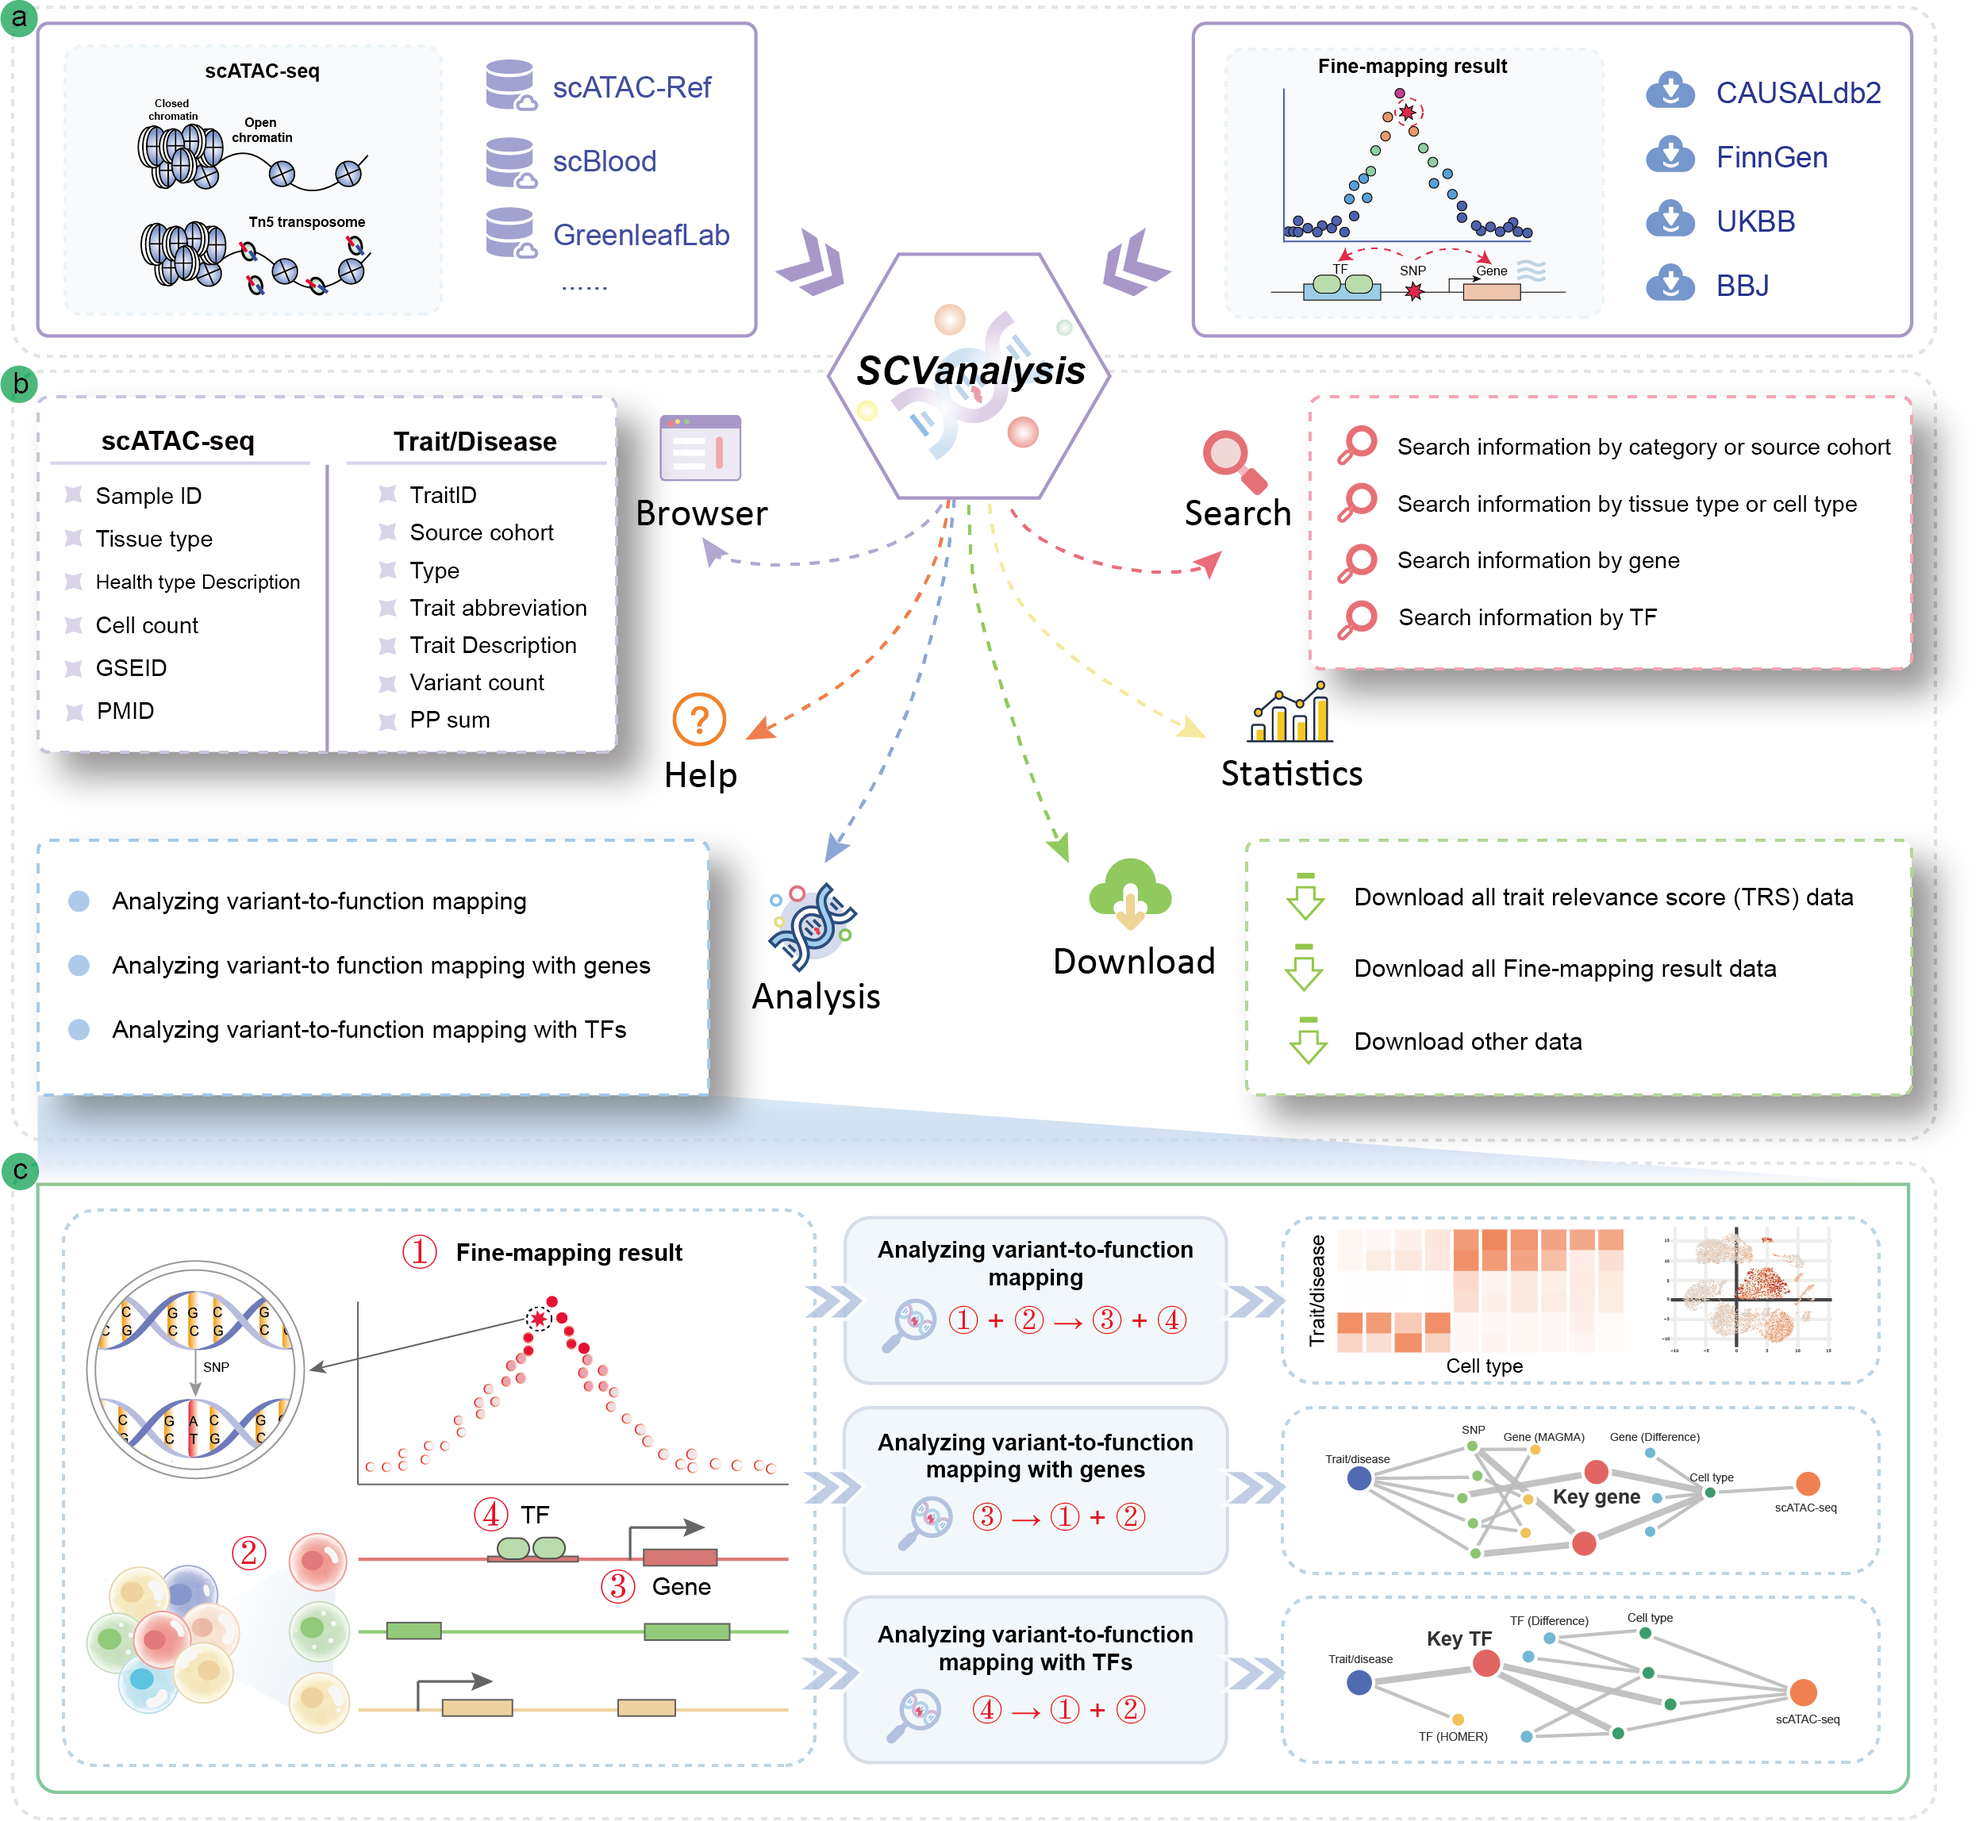
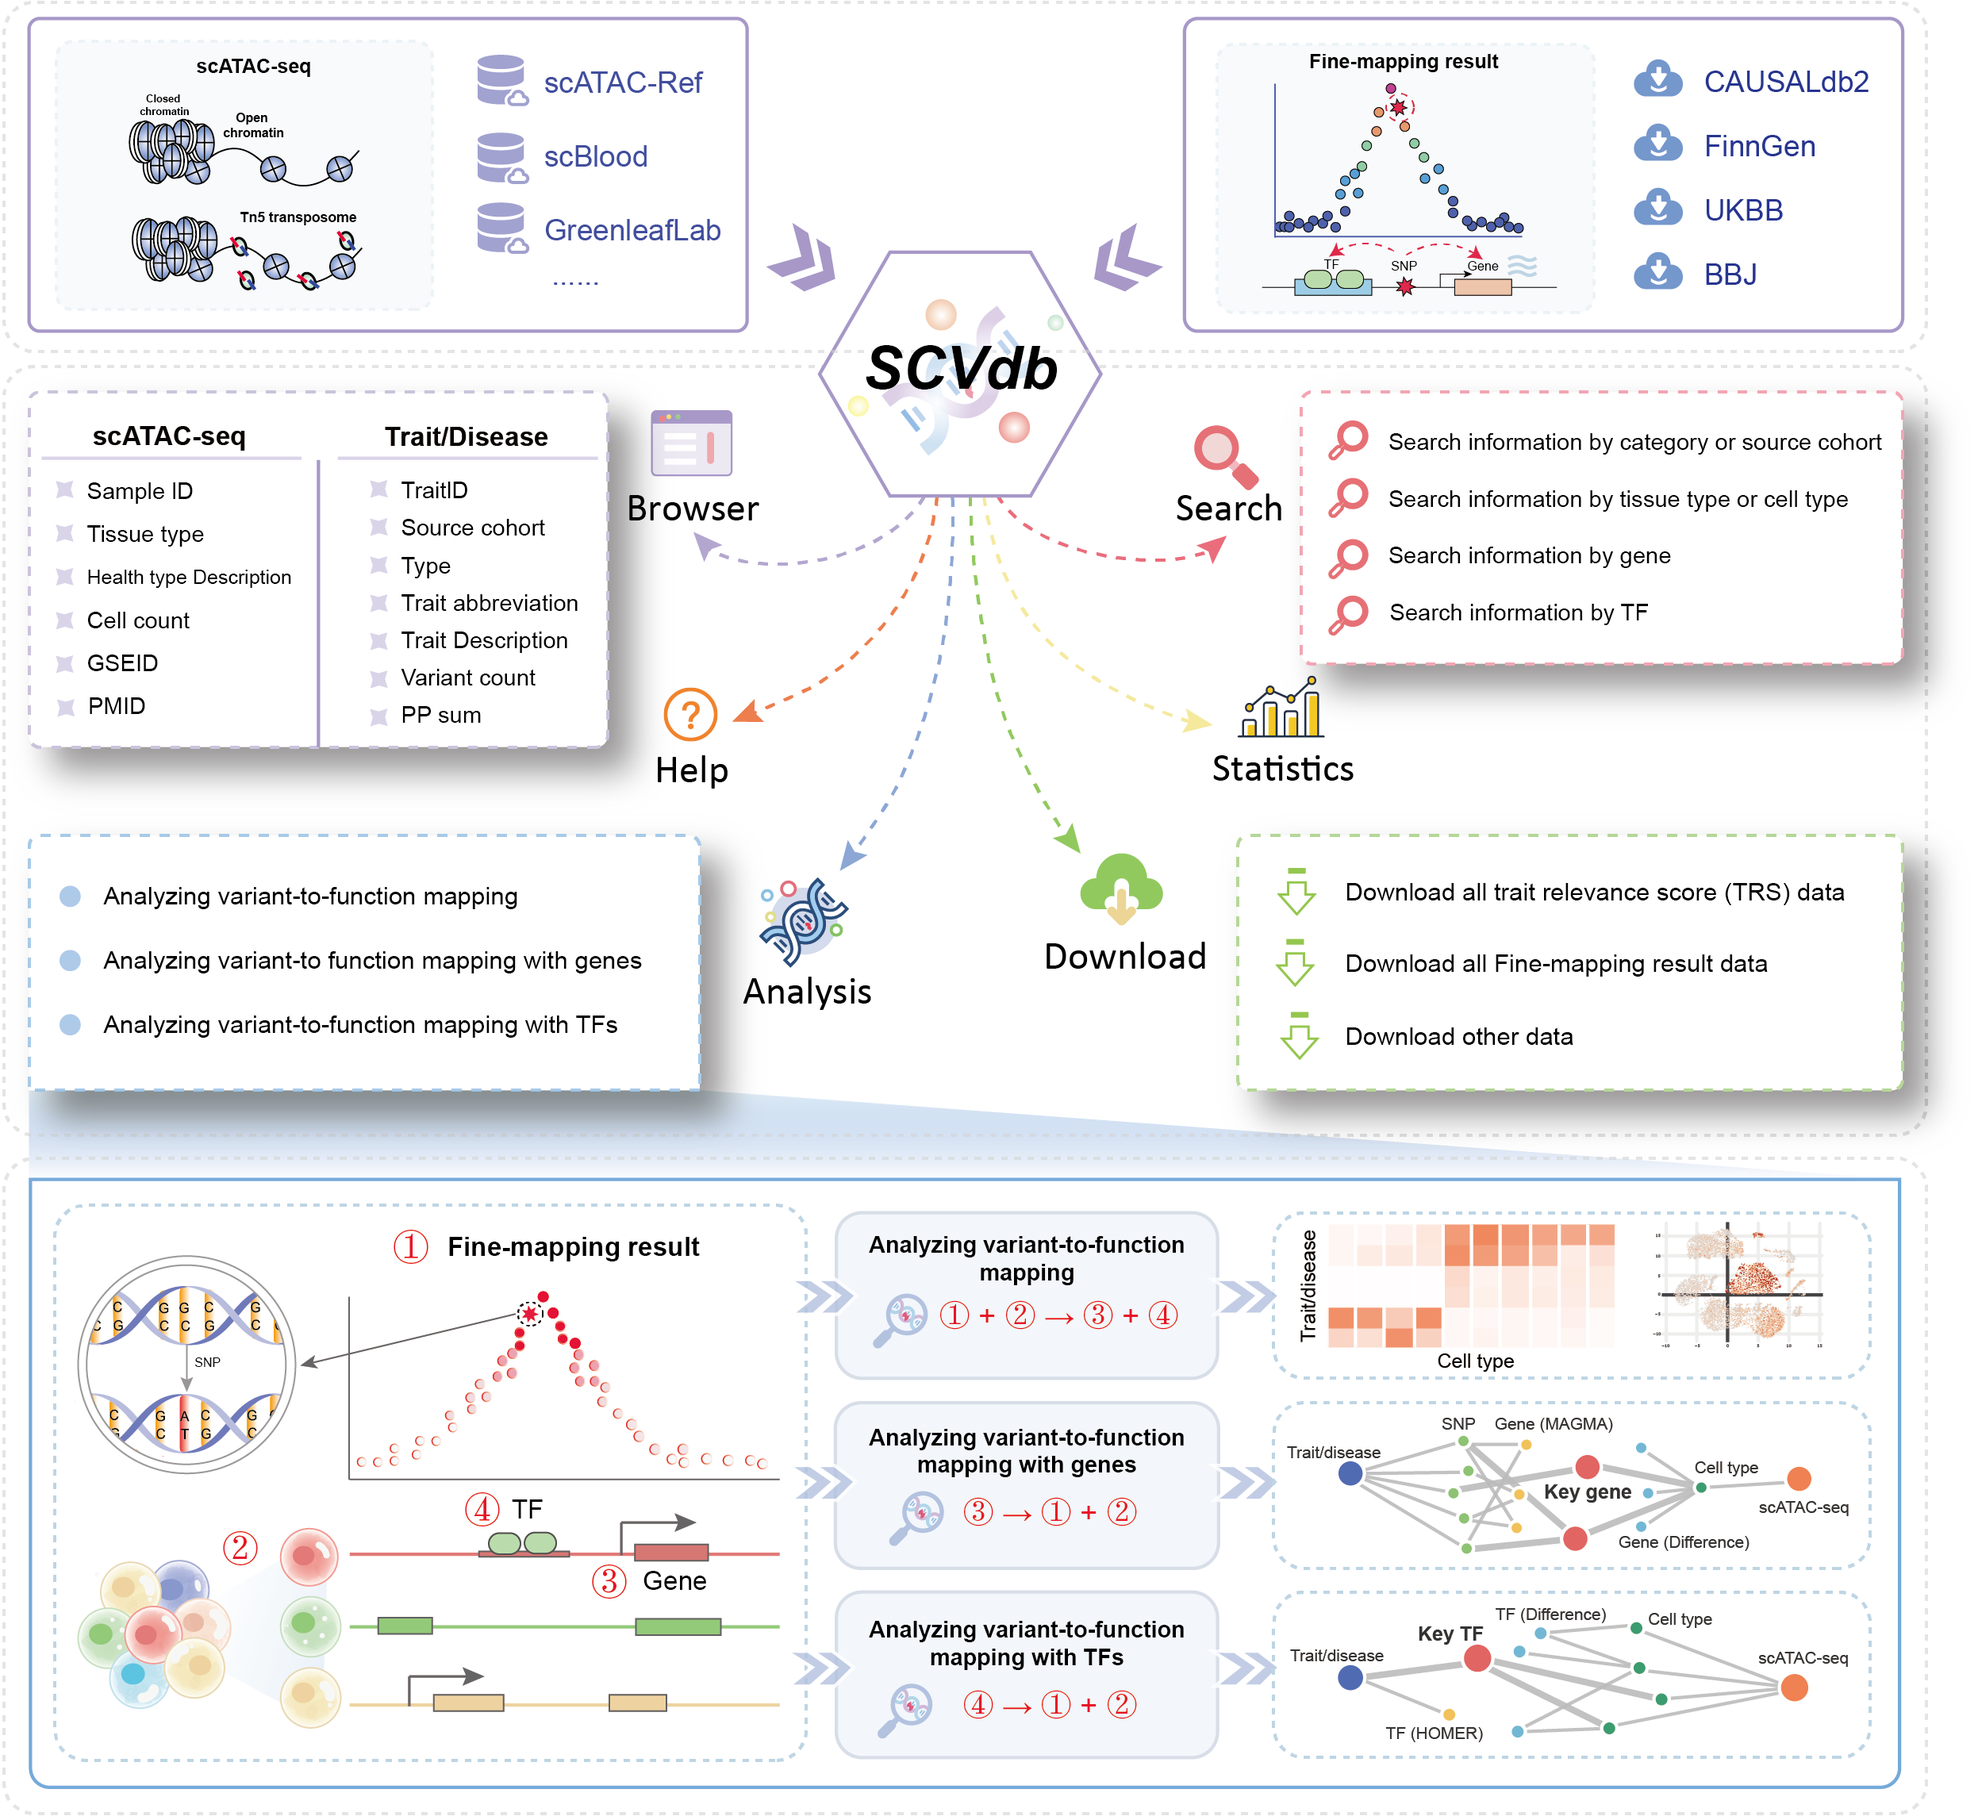
feat: 完善首页文档

diff --git a/docs/source/conf.py b/docs/source/conf.py
@@ -3,8 +3,8 @@
 # -- Project information
 
 project = 'SCVdb'
-copyright = '2025, Zhengmin Yu'
-author = 'Zhengmin Yu'
+copyright = '2025, Zheng-Min Yu'
+author = 'Zheng-Min Yu'
 
 release = '1.0.0'
 version = '1.0.0'
@@ -20,7 +20,7 @@ extensions = [
 ]
 
 intersphinx_mapping = {
-    'SCVanalysis': ('https://bio.liclab.net/scvdb/', None),
+    'SCVdb': ('https://bio.liclab.net/scvdb/', None),
     'GitHub': ('https://github.com/YuZhengM/scvdb-tutorial', None),
 }
 intersphinx_disabled_domains = ['std']

diff --git a/docs/source/structure.rst b/docs/source/structure.rst
@@ -1,27 +1,47 @@
 2. Analysis process and plat structure
 ======================================
 
+The current version of SCVdb records ``183`` scATAC-seq data and ``15,805`` fine-mapping result data.
+The scATAC-seq samples were organized and manually classified by scATAC-Ref, scBlood and others.
+By using a unified system environment and software for unified process preprocessing, causal variant
+data is collected from sources CAUSALdb, FinnGen, UKBB, and BBJ and processed and screened according
+to unified principles. Among these, the single-cell data collection includes 20 tissue types, over
+150 cell types, and a total of more than ``1,341,000`` single cells. The traits or disease types included
+in the fine-mapping result datasets are diverse and cover a wide range, encompassing `all 22 major
+disease categories` in the ICD-10 disease classification, with the II Neoplasms (C00-D48) being the
+most prevalent, totaling 630. There are over 350 subtypes of diseases under the 22 disease categories.
+Additionally, various indicators, treatments, compounds, drugs, occupation, and medical conditions are
+also included. In the result datasets, the number of valid trait- or disease-scATAC-seq data pairs
+exceeds ``1,923,000``, among which the number of trait- or disease-cell pairs is as high as ``15.9 billion``,
+providing valuable resources for exploring the functional localization of single-cell variations. SCVdb
+provides a user-friendly interface for analyzing, querying, browsing, and downloading pages, as well as
+their related annotation information. For more detailed statistical data, please refer to the
+"`Statistics <https://bio.liclab.net/scvdb/statistics>`_" page.
 
+The results page displays a summary table of relevant traits with key details. When selecting a specific trait,
+the detail information at the single cell level will be present, including the following contents:
 
-The current version of SCVdb records ``183`` scATAC-seq data and ``15,805``
-fine-mapping result data. The scATAC-seq samples were organized and
-manually classified by scATAC-Ref, scBlood and others. By using a
-unified system environment and software for unified process preprocessing,
-causal variant data is collected from sources ``CAUSALdb``, ``FinnGen``, ``UKBB``,
-and ``BBJ`` and processed and screened according to unified principles. SCVdb
-provides a user-friendly interface for analyzing, querying, browsing, and
-downloading pages, as well as their related annotation information. For
-more detailed statistical data, please refer to the "`Statistics <https://bio.liclab.net/scvdb/statistics>`_" page.
-
-The analysis results mainly include:
-
-1. Enrichment heatmap of different cell types in traits or diseases in a single-cell sample.
-#. Scatter plot and box plot of cells of interest for a certain trait or disease in the sample.
-#. The differential gene results and the bubble plot of gene enrichment in a single-cell sample.
-#. Results of gene enrichment through MAGMA for causal variant effects.
-#. Regulating a network from a trait to a single-cell sample through genes as a hub.
-#. Differential transcription factor (TF) data in a single-cell sample.
-#. Identifying TFs related to a trait or disease through HOMER.
-#. Regulating a network from a trait to a single-cell sample through TFs as a hub.
+(i). ``"Overview"``: For the single-cell sample detail page, it displays the detailed content of the sample,
+the cell type distribution chart. For the trait or disease detail page, it displays the detailed content of
+this fine-mapping result, including chromatin distribution maps and detailed causal variant information under
+different reference genome backgrounds.
+(ii). ``"Enriched Cells"``: It presents a table and corresponding visualization of enriched single-cell data.
+For this trait, scatter plots and a box plot illustrate the potential regulatory effect on various cell types.
+(iii). ``"Differential genes"``: It displays a data table of differentially expressed genes (based on gene
+activity score from scATAC-seq data) between cell types, along with bubble charts depicting pathway and GO
+term enrichment analysis results.
+(iv). ``"Genes associated with enriched trait"``: For the given traits, we performed MAGMA gene-level analysis,
+followed by pathway and GO enrichment analysis of significantly associated genes, with the results visualized
+using bubble plots.
+(v). ``"Gene hub network"``: To systematically investigate the association mechanisms between target traits and
+specific cell types, we integrated data from two key dimensions: the genetic variation dimension
+(trait-SNP-effect gene association data) and the cell-type-specific dimension
+(sample-cell type-differential gene), to construct a trait-cell type association network. This network helps
+reveal the multi-level regulatory paths through which traits influence cell types and identifies core gene sets.
+(vi). ``"Differential TFs"``: It displays a data table of differential TFs between cell types.
+(vii). ``"TFs associated with enriched trait"``: It displays the results of TF enrichment analysis for this trait using HOMER.
+(viii). ``"TF hub network"``: Similar to panel **"Gene hub network"**, this panel constructs a network graph from
+trait to cell type to identify key TFs involved in the regulatory process.
+(iX). ``"Enrichment heatmap"``: Enrichment heatmap of different cell types in traits or diseases in a single-cell sample.
 
 .. image:: img/structure/structure.png

diff --git a/docs/source/usage/home.rst b/docs/source/usage/home.rst
@@ -1,7 +1,7 @@
 3.1 Home
 ============
 
-On the homepage, we support simple searches for ``traits or disease(s)``
+On the homepage, we support **simple** searches for ``traits or disease(s)``
 of interest and ``single-cell sample(s)`` of interest. It is evident
 that this feature allows users to search for desired results based
 on the input of these two types of data, following **certain principles**
@@ -16,14 +16,14 @@ Search principle
 
  | Here, we provide four examples corresponding to two types of input for different search conditions.
 
-1. ``Traits or disease`` search:
+1. ``Trait or disease`` search:
 ***********************************
 
-:Input Type 1: When a user enters a **Trait or disease ID** (e.g., ``trait_id_1``), the system directs to the detailed page (`https://bio.liclab.net/scvdb/detail?traitId=trait_id_1 <https://bio.liclab.net/scvdb/detail?traitId=trait_id_1>`_) of the corresponding causal variant effect data.
+:Input Type 1: When a user enters a **Trait or disease ID** (e.g., ``trait_id_1496``), the system directs to the detailed page (`https://bio.liclab.net/scvdb/detail?traitId=trait_id_1 <https://bio.liclab.net/scvdb/detail?traitId=trait_id_1>`_) of the corresponding causal variant effect data.
 
 .. image:: ../img/home/traitById.png
 
-:Input Type 2: Upon entering a trait or disease name (e.g., ``Alzheimer’s disease``), the user is presented with a table listing relevant results (`https://bio.liclab.net/scvdb/simple_search?title=trait&value=Alzheimer's+disease <https://bio.liclab.net/scvdb/simple_search?title=trait&value=Alzheimer's+disease>`_). This list is derived from a fuzzy search conducted on the input term using columns ``Trait abbreviation`` and ``Trait Description`` from the ``Trait or disease data`` tab on the `Data-Browse <https://bio.liclab.net/scvdb/data_browse>`_ page, ensuring comprehensive and relevant matches.
+:Input Type 2: Upon entering a trait or disease name (e.g., ``Alzheimer's disease``), the user is presented with a table listing relevant results (`https://bio.liclab.net/scvdb/simple_search?title=trait&value=Alzheimer's+disease <https://bio.liclab.net/scvdb/simple_search?title=trait&value=Alzheimer's+disease>`_). This list is derived from a fuzzy search conducted on the input term using columns ``Trait abbreviation`` and ``Trait Description`` from the ``Trait or disease data`` tab on the `Data-Browse <https://bio.liclab.net/scvdb/data_browse>`_ page, ensuring comprehensive and relevant matches.
 
 .. image:: ../img/home/traitByAlzheimer.png
 

diff --git a/docs/source/available.rst b/docs/source/available.rst
@@ -1,11 +1,11 @@
 1. What information is available in SCVdb?
 ==============================================
 
-
 Genome-wide association studies in combination with single-cell genomic
 atlases can provide insights into the mechanisms of genetic variation.
 Fine-mapping refines this to pinpoint causal variants and more precisely
-decode disease mechanisms. The advent of single-cell ATAC sequencing,
+decode disease mechanisms. The advent of single-cell assay for transposase-accessible
+chromatin through sequencing (scATAC-seq),
 which employs co-localization and random walk techniques alongside fine-mapping,
 allows for the regulation and tagging of cell types with genetic variants,
 elucidating their role in cellular contexts. Some algorithms like g-chromVAR
@@ -14,15 +14,13 @@ impacts of genetic variations at the single-cell level. However, they face
 limitations like less user-friendly analysis workflows, time-intensive, and
 reliance on high-performance computing. These challenges hinder biologists
 from widely investigating the single-cell genetic variations, urgently calling
-for a user-friendly online analysis tool. Thus, we
-developed `SCVdb <https://bio.liclab.net/scvdb/>`_, the first
-online and user-friendly server for variant-to-function mapping at single-cell
-resolution.
+for a user-friendly online analysis tool. Thus, we developed
+`SCVdb <https://bio.liclab.net/scvdb/>`_, the first
+online and user-friendly server for variant-to-function mapping at single-cell resolution.
 
-Here, we have developed a network analysis platform (SCVdb, https://bio.liclab.net/scvdb/)
+Here, we have developed a network database platform (SCVdb, https://bio.liclab.net/scvdb/)
 for integrating single-cell chromatin accessibility regions with causal variants.
 The aim is to provide a large amount of available resources on human single-cell
 chromatin accessibility data and fine-mapping causal variant data, as well as an
 analysis platform for the integrated results of the two.
-
 

diff --git a/docs/source/index.rst b/docs/source/index.rst
@@ -5,28 +5,11 @@ Welcome to SCVdb's documentation!
 ==================================
 
 
-Genome-wide association studies in combination with single-cell genomic atlases
-can provide insights into the mechanisms of genetic variation.
-Fine-mapping refines this to pinpoint causal variants and more precisely decode
-disease mechanisms. The advent of single-cell ATAC sequencing, which employs
-co-localization and random walk techniques alongside fine-mapping, allows for
-the regulation and tagging of cell types with genetic variants, elucidating
-their role in cellular contexts. Some algorithms like g-chromVAR and SCAVENGE
-have been developed that effectively elucidate the roles and impacts of genetic
-variations at the single-cell level. However, they face limitations like less
-user-friendly analysis workflows, time-intensive, and reliance on high-performance
-computing. These challenges hinder biologists from widely investigating the
-single-cell genetic variations, urgently calling for a user-friendly online
-analysis tool. Thus, we developed `SCVdb <https://bio.liclab.net/scvdb/>`_, the first online and user-friendly
-server for variant-to-function mapping at single-cell resolution.
+A comprehensive platform for human **integrating** `single-cell chromatin accessibility data` with `causal variant effects`.
 
+`SCVdb` database access link: `https://bio.liclab.net/scvdb/ <https://bio.liclab.net/scvdb/>`_
 
-Check out the :doc:`usage` section for further information, including
-how to :ref:`installation` the project.
-
-.. note::
-
-   This project is under active development.
+.. image:: ./img/overview.png
 
 Contents
 --------

diff --git a/docs/source/usage/analysis/mapping.rst b/docs/source/usage/analysis/mapping.rst
@@ -15,8 +15,3 @@ it to the corresponding position. The detailed overview is as follows:
 
 1. ``Enrichment heatmap``: Enrichment of multiple traits or diseases into cell types of interest.
 
-
-
-
-
-
